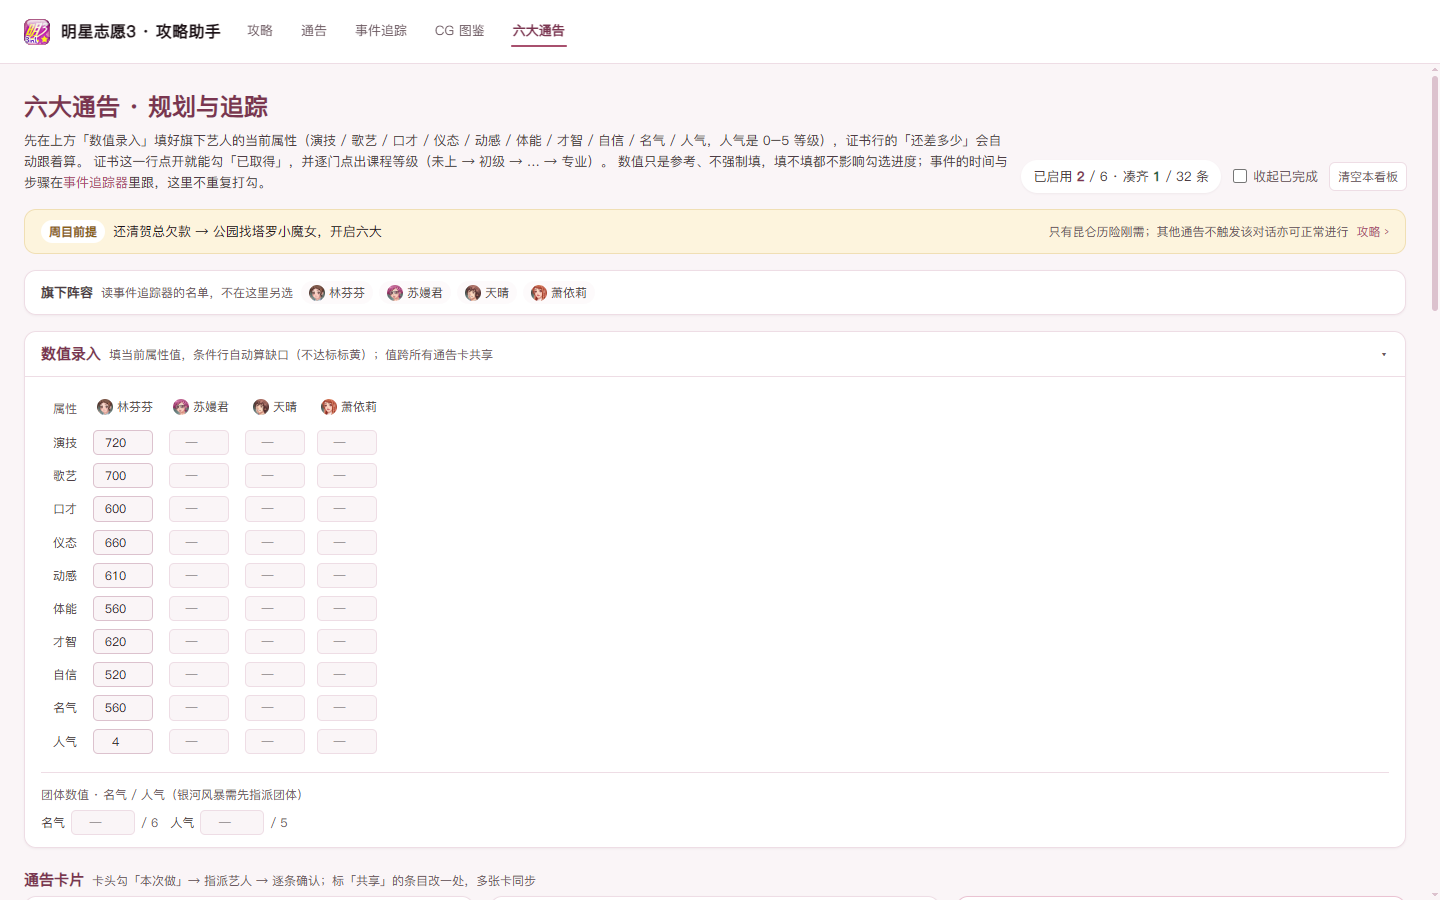
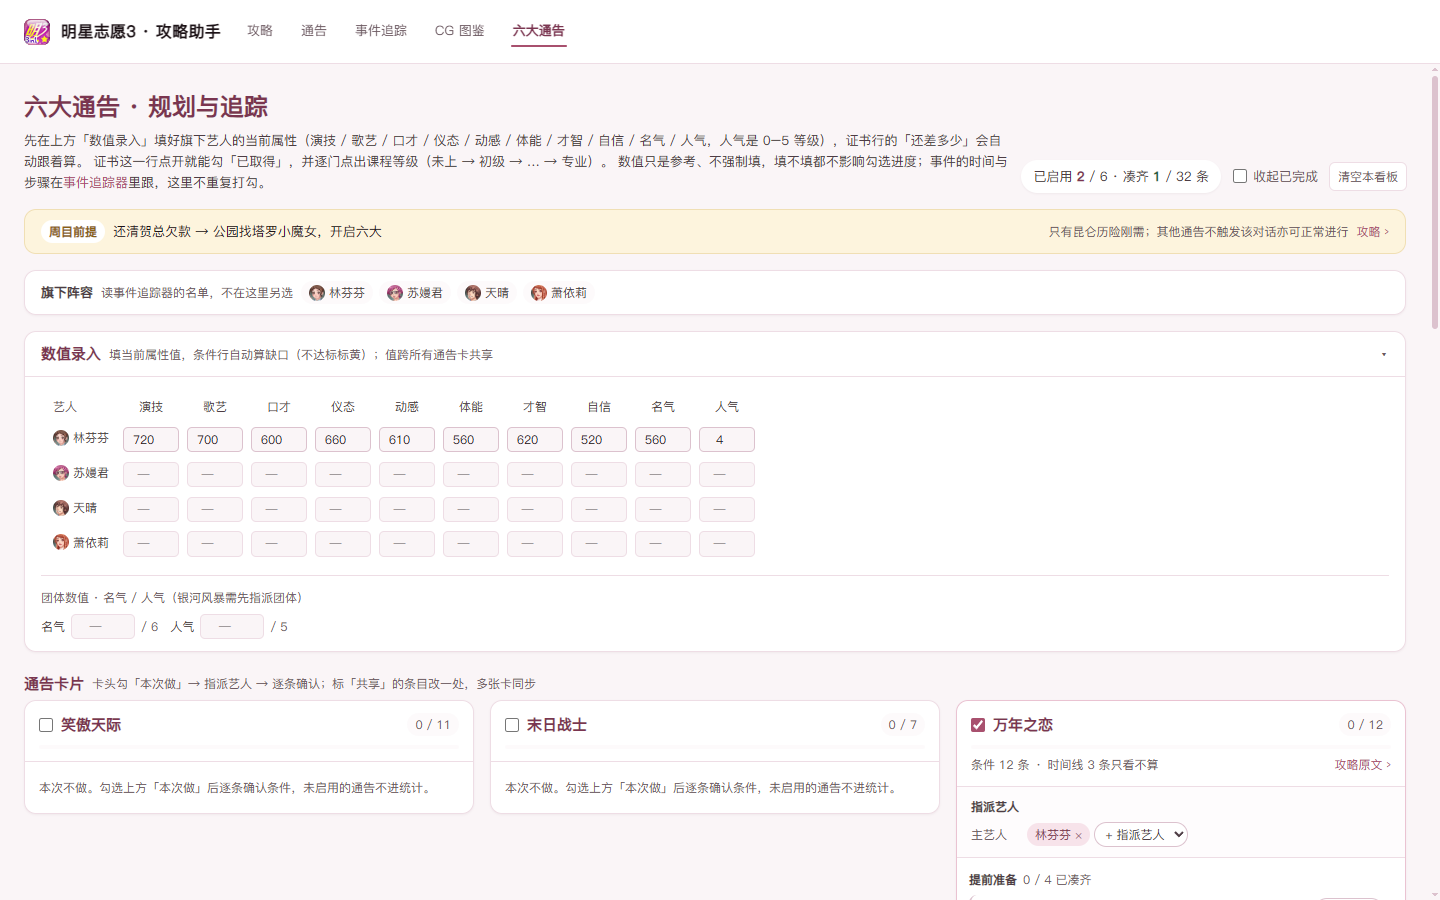
feat: lay out stats entry with artists on rows

diff --git a/src/components/specials/StatsPanel.tsx b/src/components/specials/StatsPanel.tsx
@@ -55,10 +55,23 @@ export default function StatsPanel({ artists, state, groupRows, onStat, onValue 
               <table className="border-separate border-spacing-1 text-ui-2xs">
                 <thead>
                   <tr>
-                    <th className="sticky left-0 z-10 bg-surface px-2 py-1 text-left font-medium text-ink-faint">属性</th>
-                    {artists.map((artist) => (
-                      <th key={artist.id} className="px-2 py-1 text-center font-medium text-ink-muted whitespace-nowrap">
-                        <span className="inline-flex items-center gap-1">
+                    <th className="sticky left-0 z-10 bg-surface px-2 py-1 text-left font-medium text-ink-faint whitespace-nowrap">艺人</th>
+                    {ATTRIBUTES.map((attr) => (
+                      <th
+                        key={attr.key}
+                        title={attr.hint}
+                        className="px-1 py-1 text-center font-medium text-ink-muted whitespace-nowrap"
+                      >
+                        {attr.key}
+                      </th>
+                    ))}
+                  </tr>
+                </thead>
+                <tbody>
+                  {artists.map((artist) => (
+                    <tr key={artist.id}>
+                      <td className="sticky left-0 z-10 bg-surface px-2 py-1 whitespace-nowrap">
+                        <span className="inline-flex items-center gap-1 text-ink-muted">
                           {artist.avatar && (
                             <img
                               src={`${import.meta.env.BASE_URL}${artist.avatar}`}
@@ -68,24 +81,12 @@ export default function StatsPanel({ artists, state, groupRows, onStat, onValue 
                           )}
                           {artist.title}
                         </span>
-                      </th>
-                    ))}
-                  </tr>
-                </thead>
-                <tbody>
-                  {ATTRIBUTES.map((attr) => (
-                    <tr key={attr.key}>
-                      <td
-                        className="sticky left-0 z-10 bg-surface px-2 py-1 text-ink-muted whitespace-nowrap"
-                        title={attr.hint}
-                      >
-                        {attr.key}
                       </td>
-                      {artists.map((artist) => {
+                      {ATTRIBUTES.map((attr) => {
                         const value = state.stats[artist.id]?.[attr.key];
                         const filled = value !== undefined;
                         return (
-                          <td key={artist.id} className="px-1 py-0.5">
+                          <td key={attr.key} className="px-0.5 py-0.5">
                             <input
                               type="number"
                               min={0}
@@ -100,7 +101,7 @@ export default function StatsPanel({ artists, state, groupRows, onStat, onValue 
                                 onStat(artist.id, attr.key, raw === '' ? null : Math.max(0, Number(raw)));
                               }}
                               className={cn(
-                                'w-[60px] rounded-ui-xs border bg-canvas px-1.5 py-0.5 text-center tabular-nums text-ink focus:border-brand focus:outline-none',
+                                'w-[56px] rounded-ui-xs border bg-canvas px-1.5 py-0.5 text-center tabular-nums text-ink focus:border-brand focus:outline-none',
                                 filled ? 'border-line-strong' : 'border-line',
                               )}
                             />
